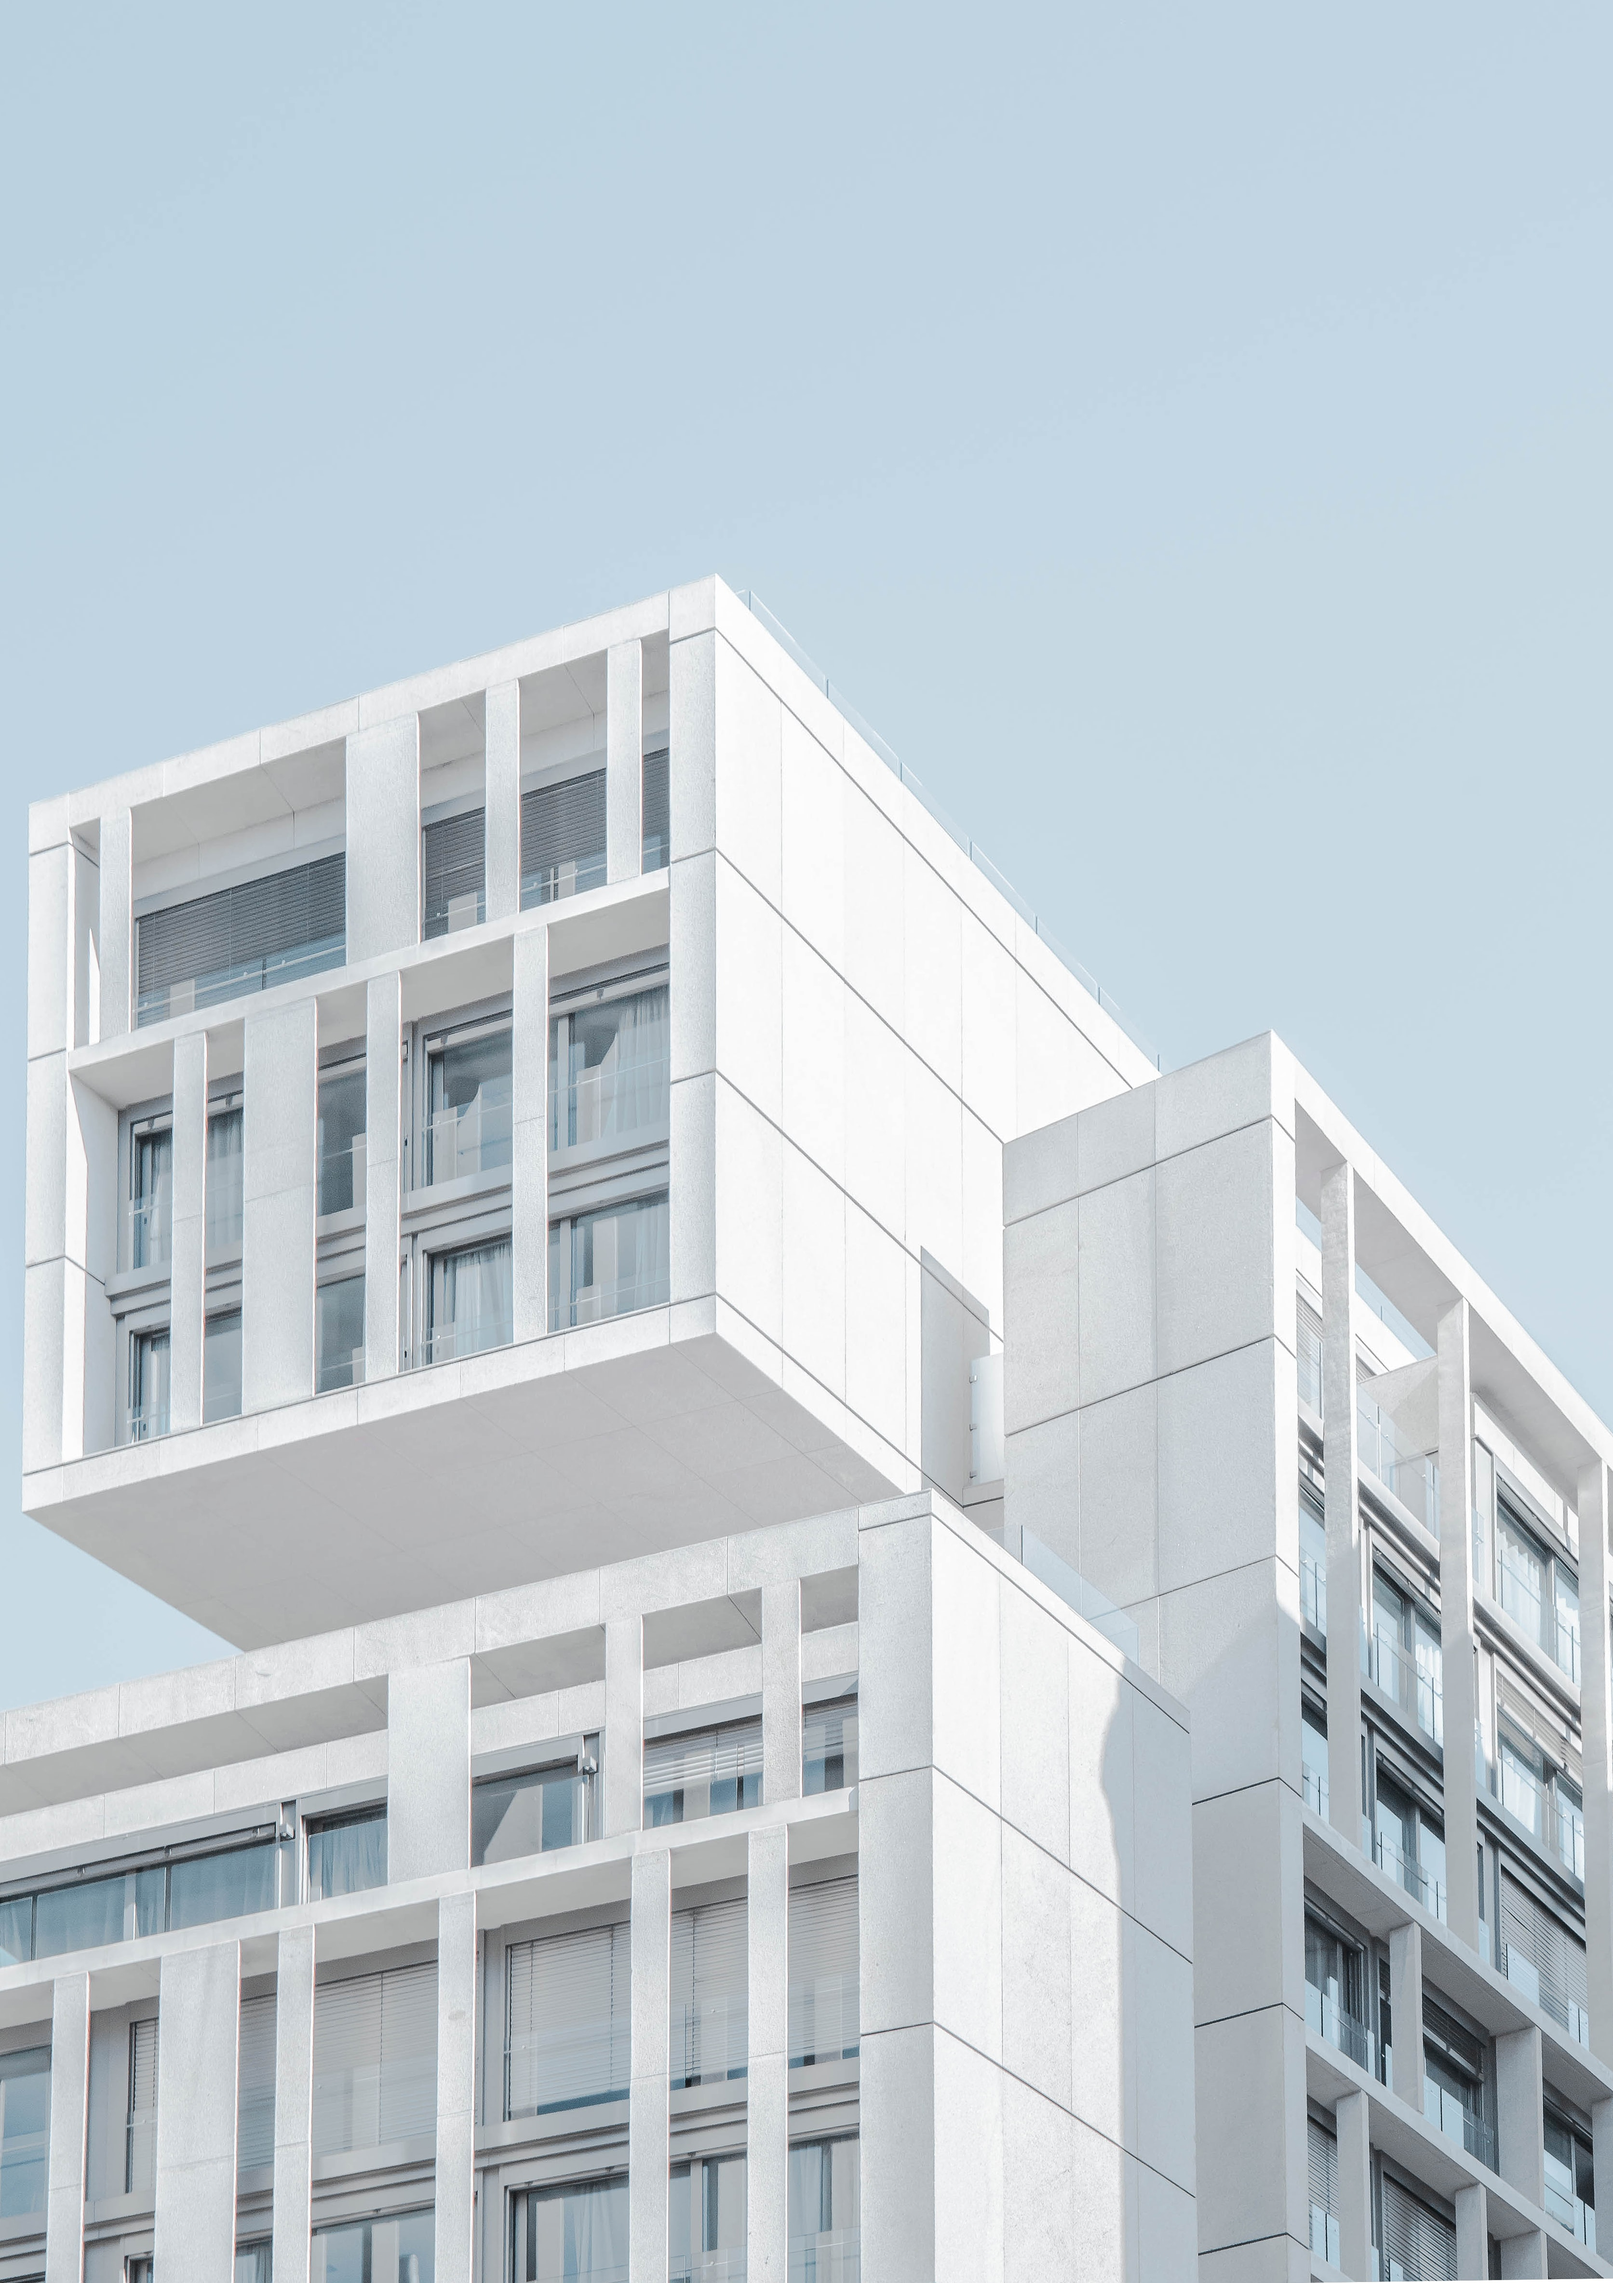
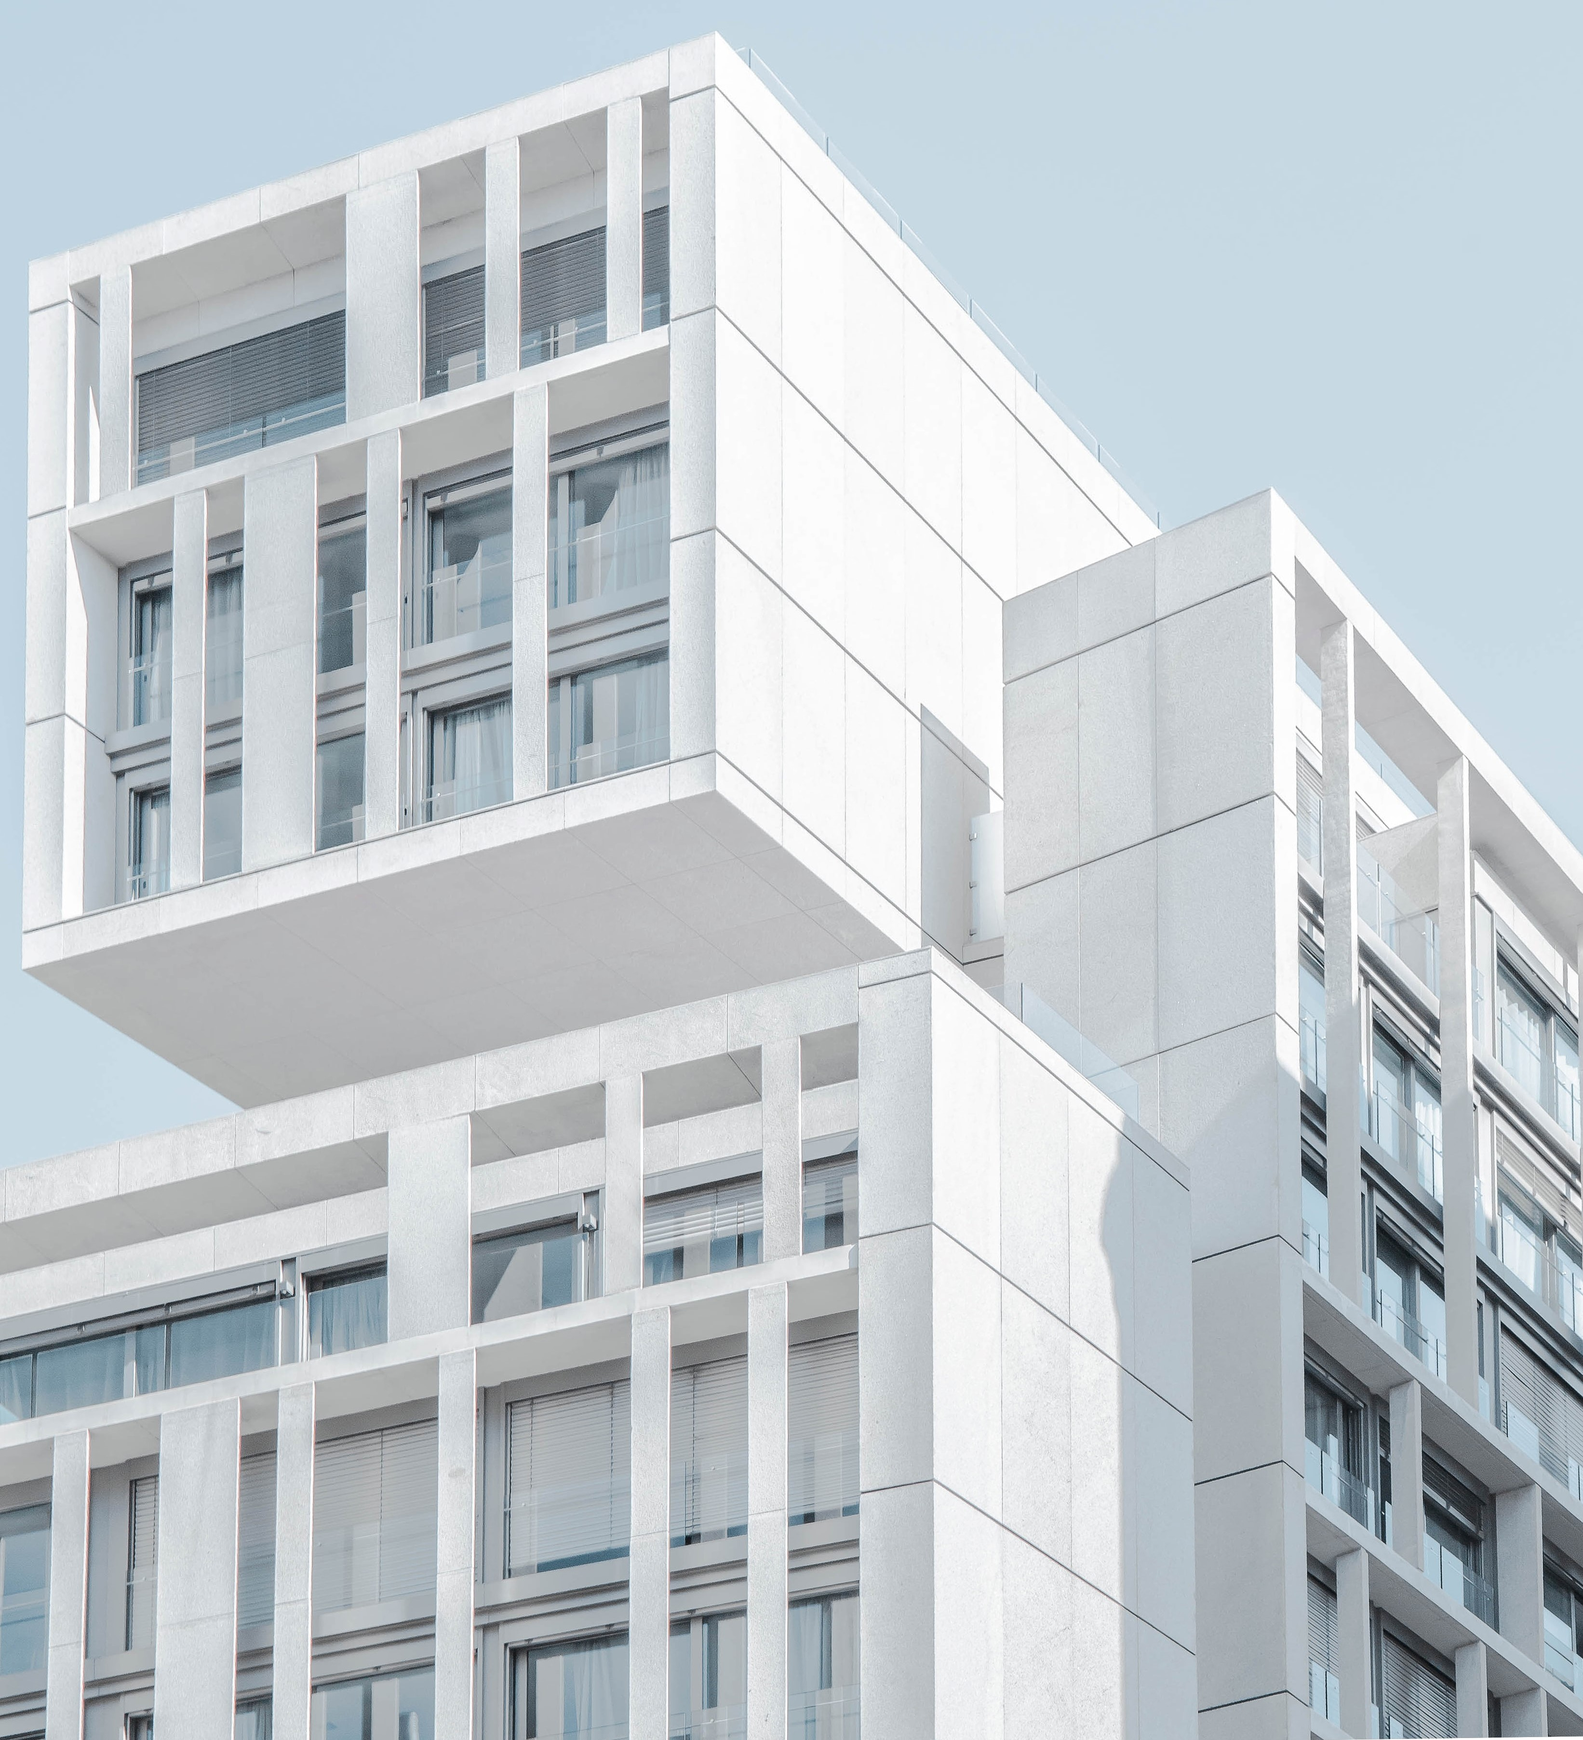
initialized aboutus page

diff --git a/client/src/pages/style.module.css b/client/src/pages/style.module.css
@@ -7,7 +7,6 @@
 .building{
   height: 5 40px;
   width: 100%;
-  
 }
 
 .intro {  
@@ -29,192 +28,29 @@
 }
 
 
-
-/* .contact{
-    font-weight: bolder;
-    padding: 1rem;
-    margin: 1rem;
-    box-shadow: 0 2px 8px rgba(0, 0, 0, 0.2);
-    border-radius: 6px;
-    background-color:wheat;      
+/* About */
+.img{
+  background-image: url('../pics/pic2.jpg');
+  background-repeat: no-repeat;
+  background-attachment: fixed;
+  background-size: 100% 100%;
 }
-.centered{
-  text-align: center;
+.container{
+  flex-direction: row;  
 }
 
-.details{
-  padding-right: 50%;
-}
-
-
-
-.h3{
-  text-align: center;
-  color: #1f2526;
-  font-family: "proxima-nova","Helvetica Neue",Helvetica,Arial,sans-serif;
-  font-weight: 400;
-  font-size: 48px;
-  font-family: europa;
-  font-weight: 300;
-  font-style: normal;
-  font-size: 32px;
-  letter-spacing: 0px;
-  text-transform: none;
-  line-height: 1.2em;
-}
-
-.why{
-  padding: 2rem;
-  text-align: center;
-  width: 100%;
-  margin-top: 2px;
-  margin-bottom: 2px;
-  color: #1f2526;
-  font-size: 48px;
-  font-family: europa;
-  font-weight: 300;
-  font-style: normal;
-  letter-spacing: 0px;
-}
-
-.why1{
-  padding: 6rem;
-}
-
-
-.building{
-  height: 5 50px;
-  width: 100%;
-  padding:1rem;
-}
-
-.aboutp{
-  padding: 4rem;
-  font-size: larger;
-  font-family:cursive;
-
-}
-
-.abouthead{
-  padding: 1rem;
-  font-size: 30px;
+.head{
+  padding-left: 4rem;
+  font-family: Impact, Haettenschweiler, 'Arial Narrow Bold', sans-serif;
   font-weight: bolder;
-  font-family: fantasy;
+  color: brown;
+  font-size: 30px
 }
 
-.building2{
-  height: 25rem;
-  width: 25rem;
-  padding: 2rem;
-}
-
-@media only screen and (max-width: 480px) {
-  .building2{
-    width: 95%;
-  }
-}
-
-.estateImg{
-  display: block;
-  height: 25rem;
-  width: 45rem;
-  padding: 2rem;
-}
-@media only screen and (max-width: 480px) {
-  .estateImg{
-    width: 95%;
-  }
-}
-
-.contacthead{
-  padding:2rem;
+.details {
+  padding-left: 4rem;
+  width: 40%;
   font-weight: bolder;
+  color:black
 }
 
-.process{
-  padding:2rem;
-  font-size: larger;
-  font-family:cursive;
-}
-
-.form {
-  position: relative;
-}
-
-.loading {
-  position: absolute;
-  width: 100%;
-  height: 100%;
-  background-color: rgba(255, 255, 255, 0.7);
-  display: flex;
-  justify-content: center;
-  align-items: center;
-}
-
-.control {
-  margin-bottom: 0.5rem;
-}
-
-.control label {
-  font-weight: bold;
-  display: block;
-  margin-bottom: 0.5rem;
-}
-
-.control input,
-.control textarea {
-  font: inherit;
-  padding: 0.35rem;
-  border-radius: 4px;
-  background-color: #f0f0f0;
-  border: 1px solid #c1d1d1;
-  display: block;
-  width: 100%;
-  font-size: 1.25rem;
-}
-
-.control input:focus,
-.control textarea:focus {
-  background-color: #cbf8f8;
-  outline-color: teal;
-}
-
-.actions {
-  text-align: right;
-}
-
-.actions button {
-  font-size: 1.25rem;
-}
-
-.contactdetails{
-  padding-left: 8rem;
-  display: block;
-}
-
-.heading{
-  text-align: center;
-  font-family: cursive;
-  font-weight: bolder;
-  font-style: oblique;
-}
-
-.projectshead{
-  text-align: center;
-  font-family:-apple-system, BlinkMacSystemFont, 'Segoe UI', Roboto, Oxygen, Ubuntu, Cantarell, 'Open Sans', 'Helvetica Neue', sans-serif;
-  font-weight: bolder;
-  font-style:inherit;
-  color: crimson;
-}
-
-.concept{
-  height: 25rem;
-  width: 25rem;
-  padding: 2rem;
-}
-
-.detailsconcept{
-  padding:4rem;
-  font-size: larger;
-  font-family:cursive;
-} */

diff --git a/client/src/pages/AboutUs.js b/client/src/pages/AboutUs.js
@@ -1,24 +1,27 @@
-import React from "react"
-import pic2 from '../pics/pic2.jpg'
 import classes from './style.module.css'
+import React from "react"
+import Footer from '../components/Footer'
+
 
 const AboutUs = () => {
     return (
         <React.Fragment>
-            <h1 className={classes.heading}>"Blended with luxury and affordability".</h1> 
-            <div>
-                <img src={pic2} align="left" className={classes.estateImg} alt='building'></img>
-                <p className={classes.process}>
-                In 15 years Under the leadership of Mr Abc we have became top rated and most trusted real Estate in XYZ with a
-                wide range of portfolio like Office,Resedential Apartments,Commercial Complex and more to come yet.
-                <br/> <br/>
-                With RERA approved we trust in building with ecology and luxury blended with affordability.
-                Being a premier privately-owned real estate company in XYZ, we are able to operate with freedom
-                and flexibility, and duly ensure that we meet our delivery timelines, every single time.
-                </p>
-            </div>
-            <br/> <br/>
-            <h1 className={classes.heading}> Clients Testinomial will be shown here 👇</h1>
+            <section id="aboutus" >
+                <div className={classes.img}>
+                    <div className={classes.container}>
+                        <p className={classes.head}>About NS07 Group</p>
+                        <p className={classes.details}>
+                            NS07 Group was formed with a motive of "luxury with affordability" and admired to become most trusted brand in Real Estate.
+                            Its been 5 years and we have delivered quality with roots spread all over Bihar,the group kept its promise and contributed
+                            to the real estate in Bihar,giving people a little beyond what normal expectations are.
+                        </p>
+                        <p className={classes.services}>
+                            
+                        </p>
+                    </div> 
+                </div>
+            </section>
+            <Footer />
         </React.Fragment>
     )
 }

diff --git a/client/src/components/Header.js b/client/src/components/Header.js
@@ -1,6 +1,6 @@
 import React from 'react'
 import {Container,Nav,Image} from 'react-bootstrap'
-import { Navbar ,NavDropdown} from 'react-bootstrap'
+import { Navbar} from 'react-bootstrap'
 import {NavLink} from './Elements'
 import logo from '../pics/logo.jpeg'
 import {GoLocation} from 'react-icons/go'
@@ -19,7 +19,6 @@ const Header = () => {
                             <NavLink to="/projects">Projects</NavLink>
                             <NavLink to="/aboutus">About Us</NavLink>
                             <NavLink to="/contact">Contact</NavLink>
-                            
                         </Nav>
                     </Navbar.Collapse>
                 </Container>

diff --git a/client/src/components/style.module.css b/client/src/components/style.module.css
@@ -39,36 +39,6 @@
   color:white;
   font-size: larger;
 }
-
-/* 
-.control {
-  margin-bottom: 0.5rem;
-}
-.control label {
-  font-weight: bold;
-  display: block;
-  margin-bottom: 0.5rem;
-}
-.control input,
-.control textarea {
-  font: inherit;
-  padding: 0.35rem;
-  border-radius: 4px;
-  background-color: #f0f0f0;
-  border: 1px solid #c1d1d1;
-  display: block;
-  width: 100%;
-  font-size: 1 rem;
-}
-.control input:focus,
-.control textarea:focus {
-  background-color: #cbf8f8;
-  outline-color: teal;
-}
-.btn{
-  box-sizing:content-box;
-  background-color: orange;
-}  */
 @media only screen and (max-width: 480px) {
   .footer{
     width:100%;
